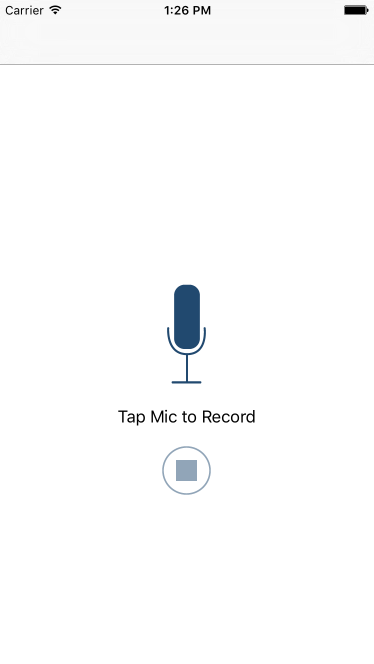
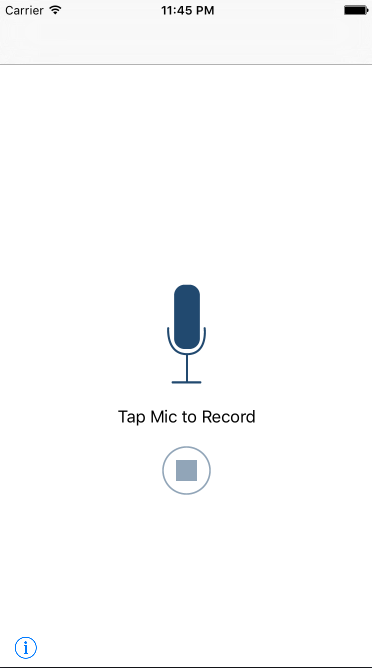
Added an info button in the Initial View
Info button added to provided the user a clearer explanation on using
the app. Updated the screenshots to reflect that.

diff --git a/RecordSoundsViewController.swift b/RecordSoundsViewController.swift
@@ -83,6 +83,17 @@ class RecordSoundsViewController: UIViewController, AVAudioRecorderDelegate {
         try! audioSession.setActive(false)
     }
     
+    @IBAction func infoButtonPressed(sender: UIButton) {
+        let alertController = UIAlertController(title: "How To:", message: "Press the microphone to record. When you're done, press stop and select one of the sound effects on the next screen.", preferredStyle: UIAlertControllerStyle.Alert)
+        
+        alertController.addAction(UIAlertAction(title: "Got it!", style: UIAlertActionStyle.Default, handler: nil))
+        
+        self.presentViewController(alertController, animated: true, completion: nil)
+    }
+    
+    
+    
+    
     func audioRecorderDidFinishRecording(recorder: AVAudioRecorder, successfully flag: Bool) {
         print("AVRecorder has fininshed saving the recording")
         
